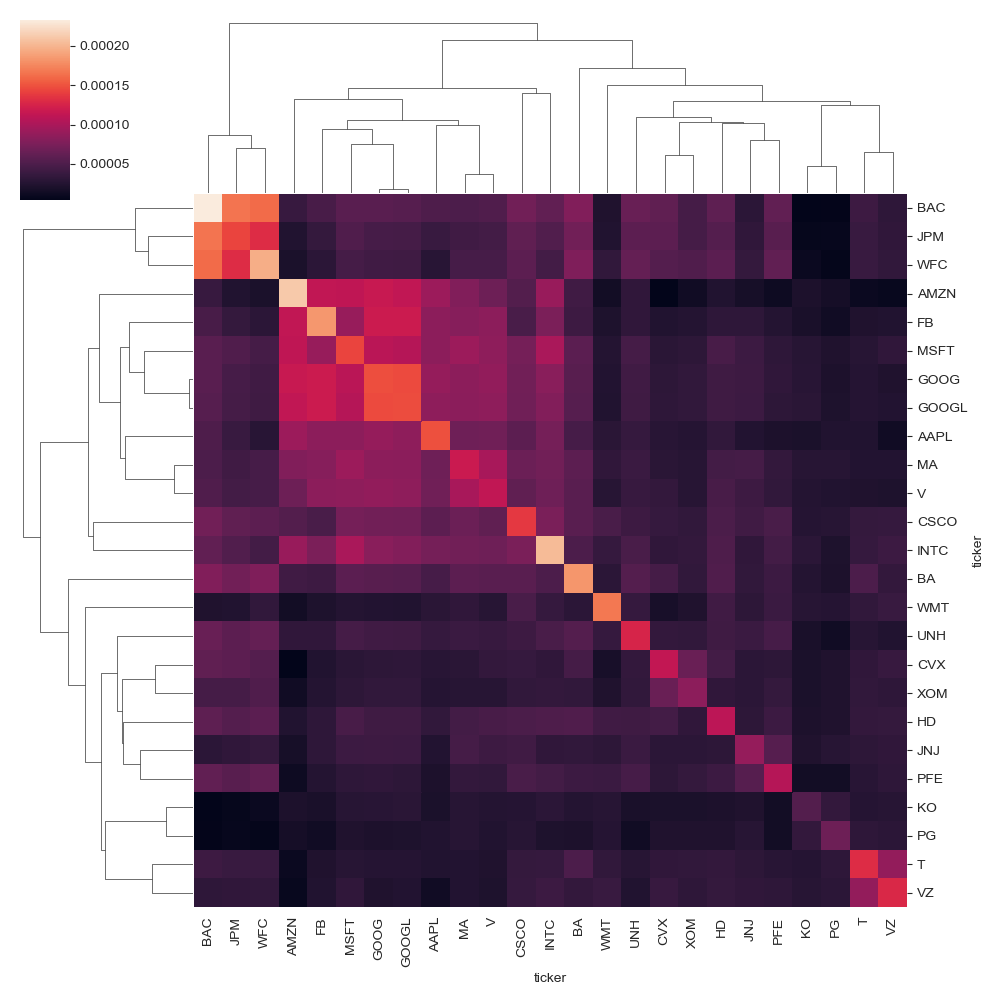
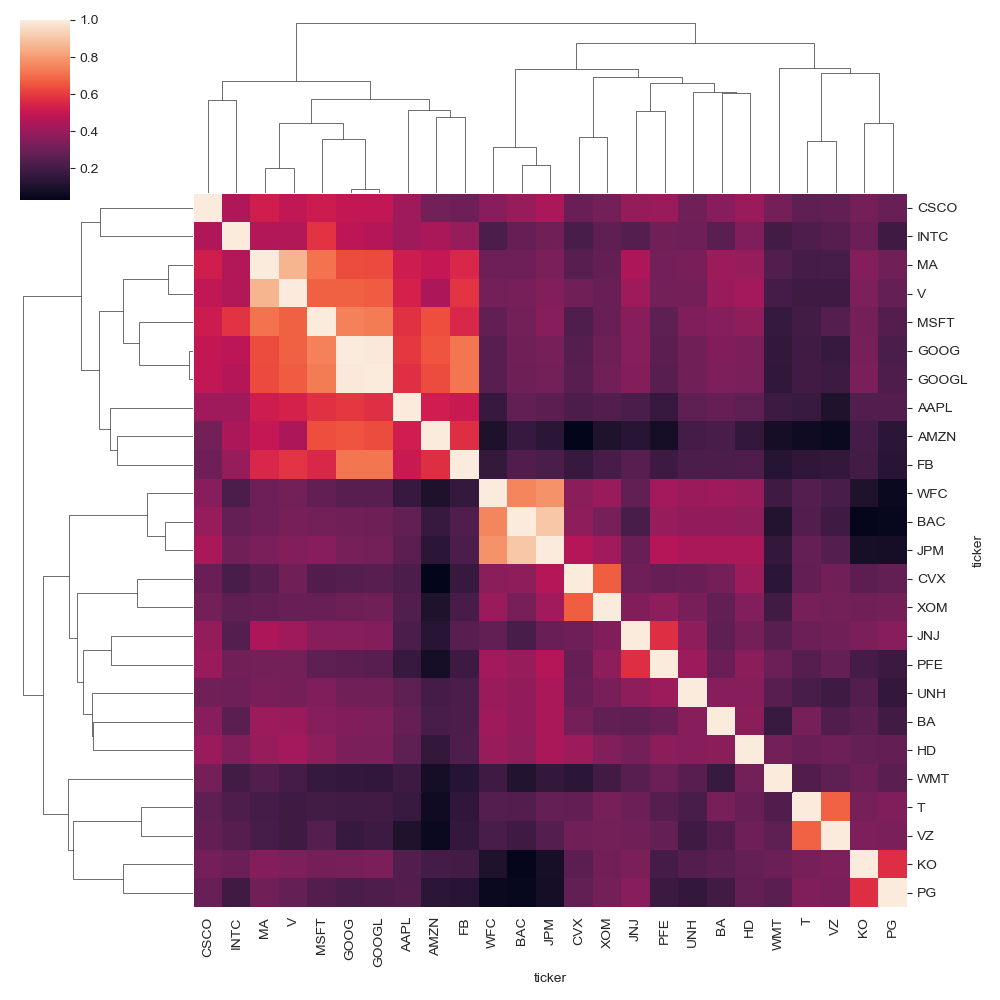
pca, manifold

diff --git a/src/13 unsupervised_learning/01_linear_dimensionality_reduction/04_pca_and_eigen_portfolios.py b/src/13 unsupervised_learning/01_linear_dimensionality_reduction/04_pca_and_eigen_portfolios.py
@@ -42,8 +42,7 @@ returns = returns.dropna(thresh=int(returns.shape[0] * 0.95), axis=1)
 returns = returns.dropna(thresh=int(returns.shape[1] * 0.95))
 returns.info()
 
-cov = returns.cov()
-sns.clustermap(cov)
+sns.clustermap(returns.corr())
 plt.savefig("images/05-01.png", bboxinches="tight")
 
 ### Run PCA
@@ -51,9 +50,13 @@ plt.savefig("images/05-01.png", bboxinches="tight")
 # days. We estimate all principal components and find that the two largest explain 57.6% and 12.4% of the covariation,
 # respectively:
 pca = PCA()
+cov = returns.cov()
 pca.fit(cov)
-pd.Series(pca.explained_variance_ratio_).to_frame("Explained Variance").head().style.format(
-    "{:,.2%}".format
+print(
+    pd.Series(pca.explained_variance_ratio_)
+    .to_frame("Explained Variance")
+    .head()
+    # .style.format("{:,.2%}".format)
 )
 
 ### Create PF weights from principal components
@@ -70,7 +73,6 @@ axes = eigen_portfolios.T.plot.bar(subplots=True, layout=(2, 2), figsize=(14, 8)
 for ax in axes.flatten():
     ax.set_ylabel("Portfolio Weight")
     ax.set_xlabel("")
-sns.despine()
 plt.savefig("images/05-02.png", bboxinches="tight")
 
 ### Eigenportfolio Performance
@@ -78,12 +80,11 @@ plt.savefig("images/05-02.png", bboxinches="tight")
 # we find that portfolio 1 performs very similarly, whereas the other portfolios capture different return patterns.
 fig, axes = plt.subplots(nrows=2, ncols=2, figsize=(14, 6), sharex=True)
 axes = axes.flatten()
-returns.mean(1).add(1).cumprod().sub(1).plot(title="The Market", ax=axes[0])
+returns.mean(axis=1).add(1).cumprod().sub(1).plot(title="The Market", ax=axes[0])
 for i in range(3):
     rc = returns.mul(eigen_portfolios.iloc[i]).sum(1).add(1).cumprod().sub(1)
     rc.plot(title=f"Portfolio {i+1}", ax=axes[i + 1], lw=1, rot=0)
 
 for i in range(4):
     axes[i].set_xlabel("")
-sns.despine()
 plt.savefig("images/05-03.png", bboxinches="tight")
